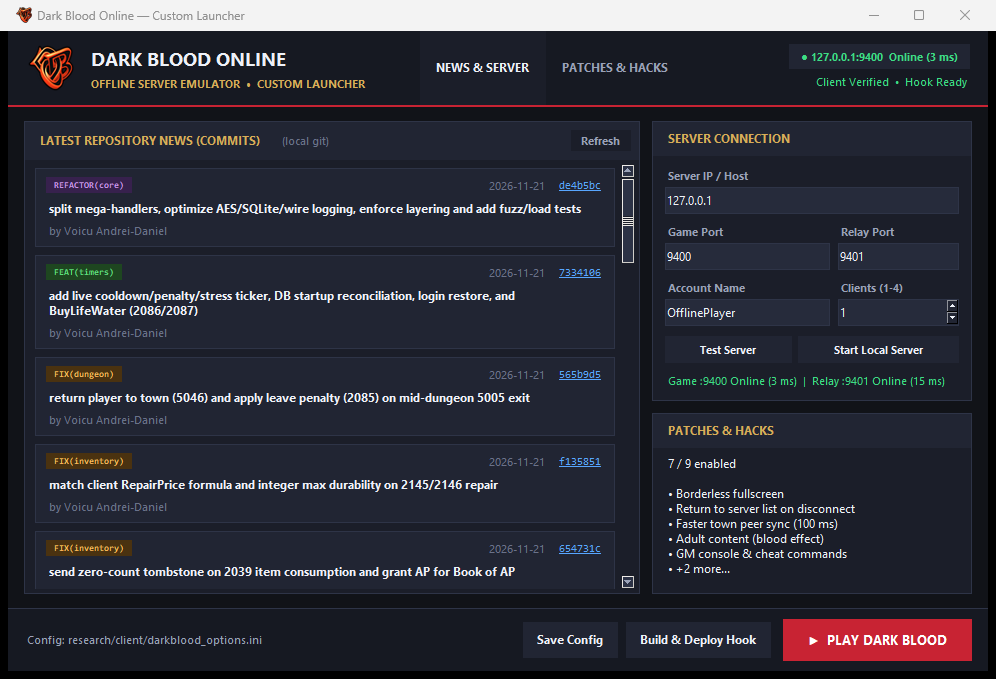
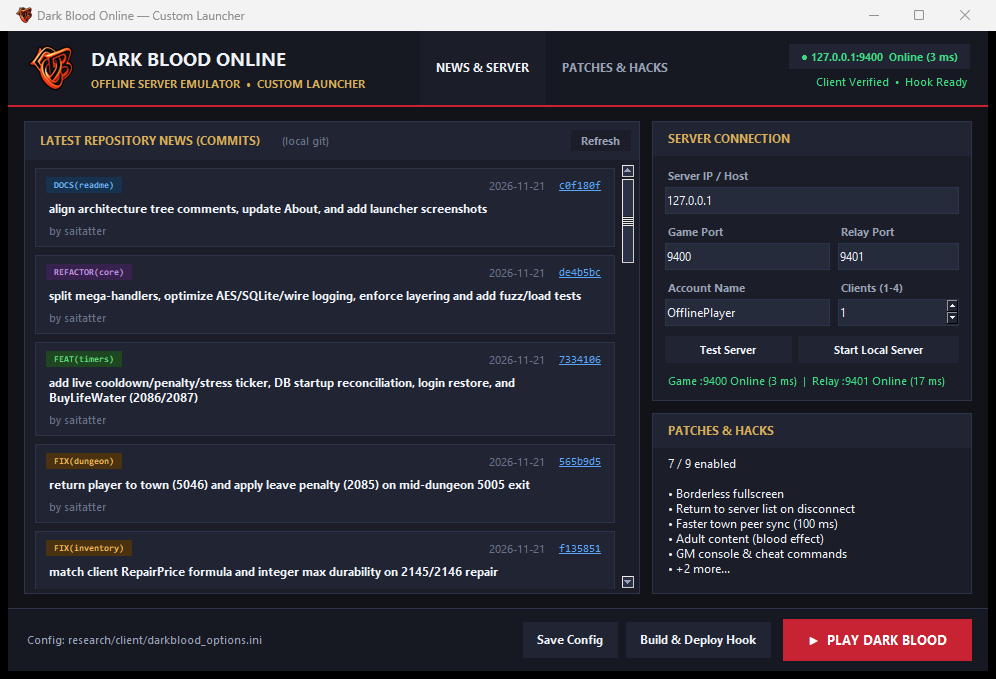
fix(launcher): display GitHub usernames in commit feed and refresh screenshots

diff --git a/tools/launcher.py b/tools/launcher.py
@@ -132,12 +132,36 @@ def extract_client_icon_bytes(exe_path=CLIENT_EXE):
             pe.close()
 
 
+# Map local git author emails/names to GitHub usernames so offline `git log`
+# displays GitHub handles instead of local real names.
+_GITHUB_USERNAMES = {
+    'andrei.voicu133@gmail.com': 'saitatter',
+    'voicu andrei-daniel': 'saitatter',
+    'cri999sti@gmail.com': 'CristianVita',
+}
+
+
+def _resolve_github_username(name: str, email: str = '', login: str = '') -> str:
+    if login:
+        return login
+    email_low = (email or '').strip().lower()
+    if email_low in _GITHUB_USERNAMES:
+        return _GITHUB_USERNAMES[email_low]
+    if email_low.endswith('@users.noreply.github.com'):
+        local_part = email_low.split('@', 1)[0]
+        return local_part.split('+', 1)[-1]
+    name_low = (name or '').strip().lower()
+    if name_low in _GITHUB_USERNAMES:
+        return _GITHUB_USERNAMES[name_low]
+    return name or 'unknown'
+
+
 def fetch_recent_commits(limit=25):
     """Return list of dicts {sha, short, date, author, subject} from local git or GitHub."""
     flags = getattr(subprocess, 'CREATE_NO_WINDOW', 0)
     try:
         proc = subprocess.run(
-            ['git', 'log', f'-n{limit}', '--pretty=format:%H\x1f%h\x1f%ad\x1f%an\x1f%s', '--date=short'],
+            ['git', 'log', f'-n{limit}', '--pretty=format:%H\x1f%h\x1f%ad\x1f%an\x1f%ae\x1f%s', '--date=short'],
             cwd=str(ROOT), capture_output=True, text=True, encoding='utf-8',
             errors='replace', timeout=5, creationflags=flags,
         )
@@ -145,10 +169,12 @@ def fetch_recent_commits(limit=25):
             commits = []
             for line in proc.stdout.splitlines():
                 parts = line.split('\x1f')
-                if len(parts) == 5:
+                if len(parts) == 6:
                     commits.append({
                         'sha': parts[0], 'short': parts[1],
-                        'date': parts[2], 'author': parts[3], 'subject': parts[4],
+                        'date': parts[2],
+                        'author': _resolve_github_username(parts[3], parts[4]),
+                        'subject': parts[5],
                     })
             if commits:
                 return commits, 'local git'
@@ -165,8 +191,14 @@ def fetch_recent_commits(limit=25):
         for item in data[:limit]:
             sha = item.get('sha', '')
             c = item.get('commit', {})
-            author = (c.get('author') or {}).get('name', 'unknown')
-            date = ((c.get('author') or {}).get('date', '') or '')[:10]
+            gh_author = item.get('author') or {}
+            c_author = c.get('author') or {}
+            author = _resolve_github_username(
+                c_author.get('name', ''),
+                c_author.get('email', ''),
+                gh_author.get('login', ''),
+            )
+            date = (c_author.get('date', '') or '')[:10]
             subject = (c.get('message', '') or '').splitlines()[0]
             commits.append({
                 'sha': sha, 'short': sha[:7],
